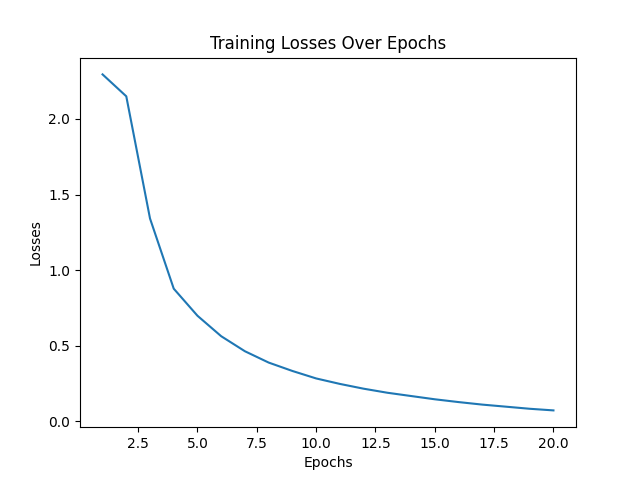
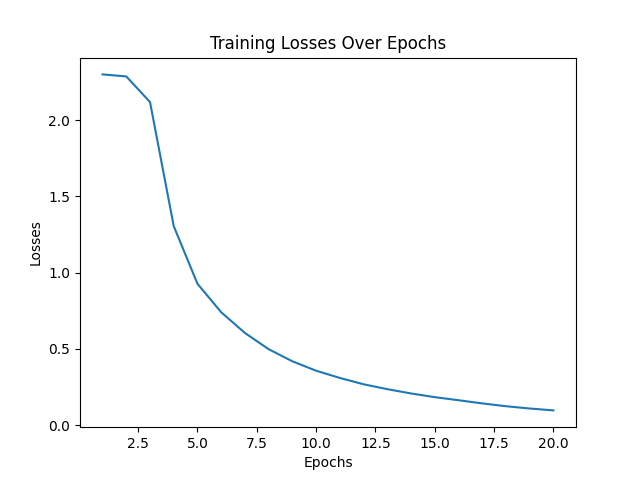
Fix bug in train script

diff --git a/src/train_model.py b/src/train_model.py
@@ -53,9 +53,9 @@ def train(config):
     print(os.getcwd())
     model = MyAwesomeModel(
         model_params['hidden1'],
-        model_params['hidden1'],
-        model_params['hidden1'],
-        model_params['hidden1'],
+        model_params['hidden2'],
+        model_params['hidden3'],
+        model_params['hidden4'],
         model_params['drop_p'],
     ).to(device)
 
